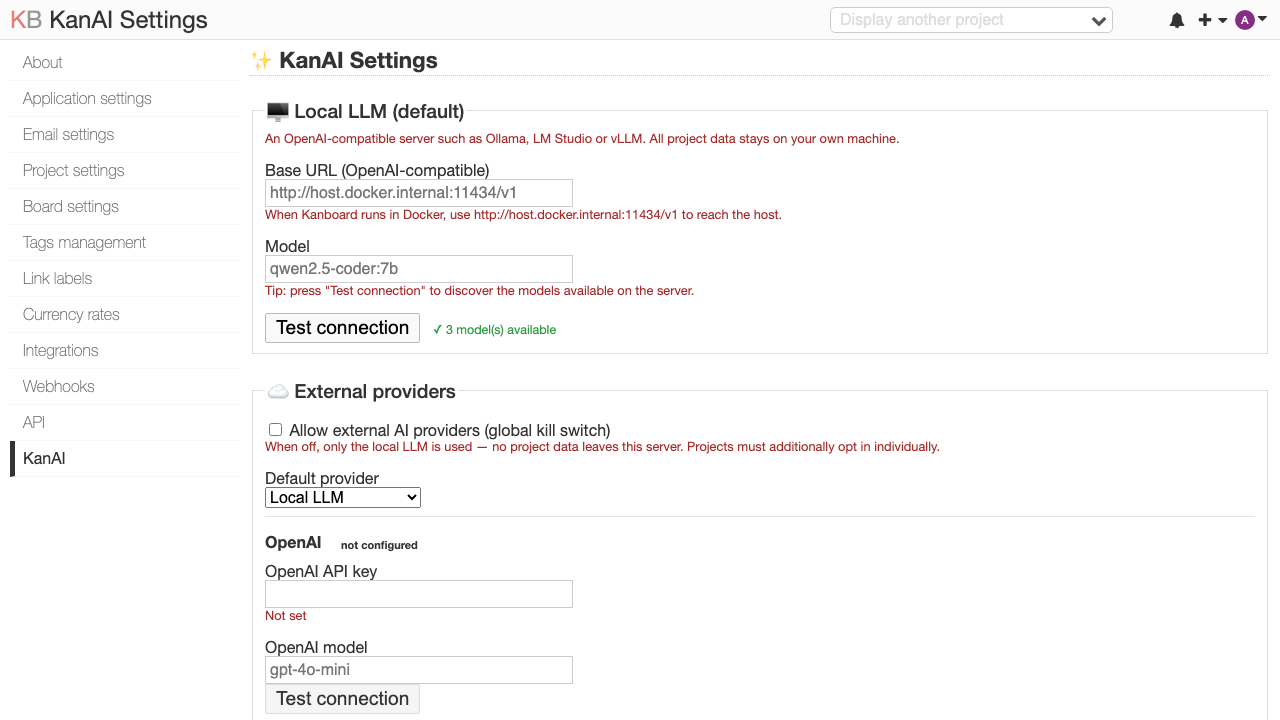
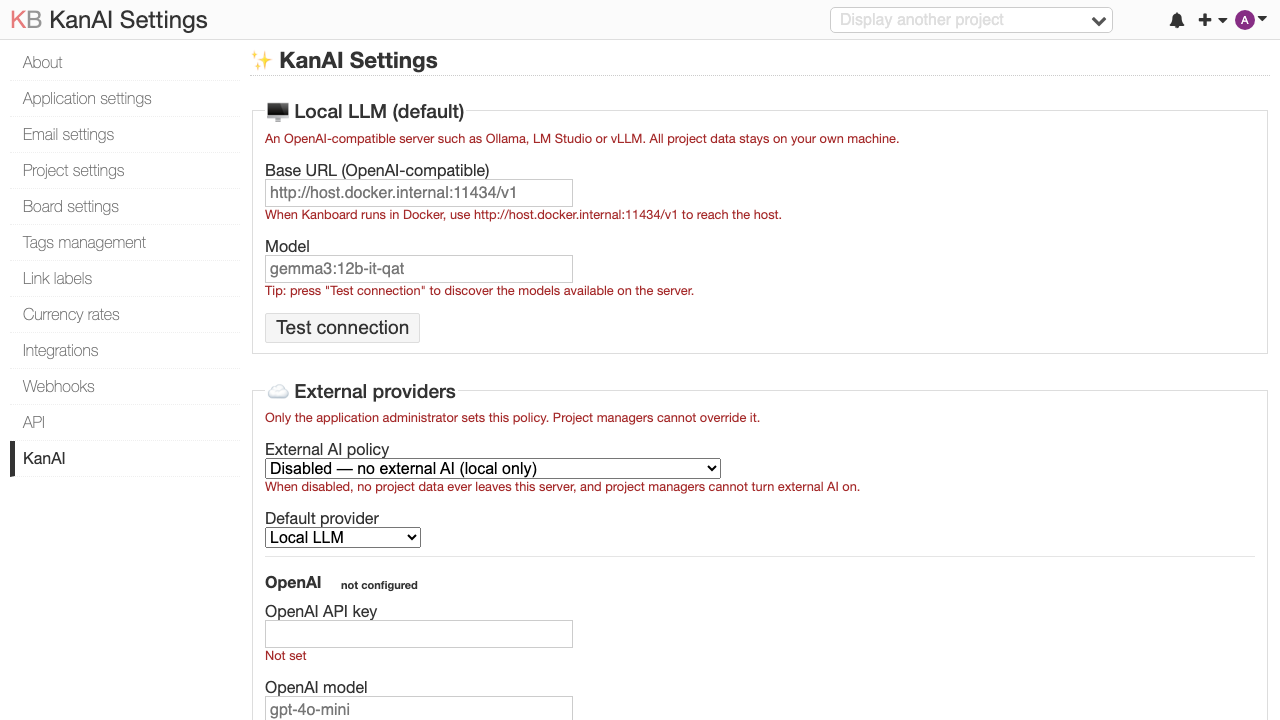
feat: admin-controlled external-AI policy (disabled/per-project/all) — v1.6.0
The application administrator (APP_ADMIN) now sets a 3-state external-AI policy;
project managers can only toggle per-project opt-in when the policy allows it and
cannot enable external AI the admin locked down. Enforced server-side in
SettingsModel::saveProject + LlmClientFactory (crafted requests ignored). Legacy
kill switch migrates automatically. Verified live across all three policies.

diff --git a/Model/SettingsModel.php b/Model/SettingsModel.php
@@ -51,8 +51,11 @@ class SettingsModel extends Base
     public function saveGlobal(array $values): void
     {
         $crypto = $this->crypto();
+        $policy = \Kanboard\Plugin\KanAI\Settings\GatingPolicy::normalizePolicy($values['kanai_external_policy'] ?? 'disabled');
         $save = [
-            'kanai_external_enabled' => empty($values['kanai_external_enabled']) ? '0' : '1',
+            'kanai_external_policy' => $policy,
+            // Keep the legacy boolean in sync for any external reader.
+            'kanai_external_enabled' => $policy === \Kanboard\Plugin\KanAI\Settings\GatingPolicy::POLICY_DISABLED ? '0' : '1',
             'kanai_default_provider' => in_array($values['kanai_default_provider'] ?? 'local', ['local', 'openai', 'anthropic'], true)
                 ? $values['kanai_default_provider'] : 'local',
             'kanai_local_base_url' => trim($values['kanai_local_base_url'] ?? self::DEFAULTS['kanai_local_base_url']),
@@ -78,9 +81,24 @@ class SettingsModel extends Base
         $this->configModel->save($save);
     }
 
+    /**
+     * Application-admin external-AI policy: disabled | project_optin | all_projects.
+     * Falls back to the legacy boolean kill switch for pre-1.6 installs.
+     */
+    public function getExternalPolicy(): string
+    {
+        $policy = $this->configModel->get('kanai_external_policy', '');
+        if ($policy === '') {
+            return $this->configModel->get('kanai_external_enabled', '0') === '1'
+                ? \Kanboard\Plugin\KanAI\Settings\GatingPolicy::POLICY_PROJECT_OPTIN
+                : \Kanboard\Plugin\KanAI\Settings\GatingPolicy::POLICY_DISABLED;
+        }
+        return \Kanboard\Plugin\KanAI\Settings\GatingPolicy::normalizePolicy($policy);
+    }
+
     public function isExternalEnabled(): bool
     {
-        return $this->configModel->get('kanai_external_enabled', '0') === '1';
+        return \Kanboard\Plugin\KanAI\Settings\GatingPolicy::externalEnabled($this->getExternalPolicy());
     }
 
     public function getProjectEnabled(int $projectId): bool
@@ -100,6 +118,12 @@ class SettingsModel extends Base
 
     public function saveProject(int $projectId, bool $enabled, bool $externalOptIn, bool $autoDigest = false): void
     {
+        // A project manager may only change the external opt-in when the admin
+        // policy allows it; otherwise the stored value is preserved (the manager
+        // cannot enable external AI the application admin has locked down).
+        if (! \Kanboard\Plugin\KanAI\Settings\GatingPolicy::projectMayOptIn($this->getExternalPolicy())) {
+            $externalOptIn = $this->getProjectExternalOptIn($projectId);
+        }
         $this->projectMetadataModel->save($projectId, [
             'kanai_enabled' => $enabled ? '1' : '0',
             'kanai_external_opt_in' => $externalOptIn ? '1' : '0',

diff --git a/Locale/nl_NL/translations.php b/Locale/nl_NL/translations.php
@@ -72,7 +72,14 @@ return array(
     'configured' => 'ingesteld',
     'not configured' => 'niet ingesteld',
     'Local LLM' => 'Lokaal LLM',
-    'When off, only the local LLM is used — no project data leaves this server. Projects must additionally opt in individually.' => 'Indien uit wordt alleen het lokale LLM gebruikt — er verlaten geen projectgegevens deze server. Projecten moeten daarnaast individueel opt-in geven.',
+    'Only the application administrator sets this policy. Project managers cannot override it.' => 'Alleen de applicatiebeheerder stelt dit beleid in. Projectbeheerders kunnen het niet overschrijven.',
+    'External AI policy' => 'Beleid externe AI',
+    'Disabled — no external AI (local only)' => 'Uitgeschakeld — geen externe AI (alleen lokaal)',
+    'Per-project opt-in — project managers may enable it' => 'Per-project opt-in — projectbeheerders mogen het aanzetten',
+    'Enabled for all projects — project managers cannot change it' => 'Aan voor alle projecten — projectbeheerders kunnen het niet wijzigen',
+    'When disabled, no project data ever leaves this server, and project managers cannot turn external AI on.' => 'Indien uitgeschakeld verlaten er nooit projectgegevens deze server, en kunnen projectbeheerders externe AI niet aanzetten.',
+    'External AI is enabled for all projects by the administrator.' => 'Externe AI is door de beheerder voor alle projecten ingeschakeld.',
+    'External AI providers are disabled by the administrator; only the local LLM is used.' => 'Externe AI-providers zijn door de beheerder uitgeschakeld; alleen het lokale LLM wordt gebruikt.',
     'How much project data is packed into a question. Larger = better answers, slower and heavier for the model.' => 'Hoeveel projectdata er in een vraag meegaat. Groter = betere antwoorden, maar trager en zwaarder voor het model.',
     'Local models can take a while; 120–180s is a safe range for larger models.' => 'Lokale modellen kunnen even duren; 120–180s is een veilige marge voor grotere modellen.',
     'Rate limit (questions per user per hour, 0 = unlimited)' => 'Limiet (vragen per gebruiker per uur, 0 = onbeperkt)',

diff --git a/tests/Settings/GatingPolicyTest.php b/tests/Settings/GatingPolicyTest.php
@@ -14,6 +14,38 @@ final class GatingPolicyTest extends TestCase
         $this->assertTrue(GatingPolicy::isExternalProvider('anthropic'));
     }
 
+    public function testNormalizePolicyRejectsUnknown(): void
+    {
+        $this->assertSame('disabled', GatingPolicy::normalizePolicy('nonsense'));
+        $this->assertSame('all_projects', GatingPolicy::normalizePolicy('all_projects'));
+        $this->assertSame('project_optin', GatingPolicy::normalizePolicy('project_optin'));
+    }
+
+    public function testExternalEnabledPerPolicy(): void
+    {
+        $this->assertFalse(GatingPolicy::externalEnabled('disabled'));
+        $this->assertTrue(GatingPolicy::externalEnabled('project_optin'));
+        $this->assertTrue(GatingPolicy::externalEnabled('all_projects'));
+    }
+
+    public function testProjectMayOptInOnlyForOptinPolicy(): void
+    {
+        $this->assertTrue(GatingPolicy::projectMayOptIn('project_optin'));
+        $this->assertFalse(GatingPolicy::projectMayOptIn('disabled'));
+        $this->assertFalse(GatingPolicy::projectMayOptIn('all_projects'));
+    }
+
+    public function testEffectiveOptInAppliesAdminPolicy(): void
+    {
+        // disabled: never, regardless of the project flag
+        $this->assertFalse(GatingPolicy::effectiveOptIn('disabled', true));
+        // all_projects: always, even if the project flag is off
+        $this->assertTrue(GatingPolicy::effectiveOptIn('all_projects', false));
+        // project_optin: follows the project flag
+        $this->assertTrue(GatingPolicy::effectiveOptIn('project_optin', true));
+        $this->assertFalse(GatingPolicy::effectiveOptIn('project_optin', false));
+    }
+
     public function testCanUseExternalRequiresBothFlags(): void
     {
         $this->assertTrue(GatingPolicy::canUseExternal(true, true));

diff --git a/Settings/GatingPolicy.php b/Settings/GatingPolicy.php
@@ -14,6 +14,41 @@ class GatingPolicy
     public const LOCAL = 'local';
     public const EXTERNAL = ['openai', 'anthropic'];
 
+    // Application-admin external-AI policy (project managers cannot change it).
+    public const POLICY_DISABLED = 'disabled';        // no external AI anywhere
+    public const POLICY_PROJECT_OPTIN = 'project_optin'; // project managers may opt in
+    public const POLICY_ALL_PROJECTS = 'all_projects';   // forced on for every project
+    public const POLICIES = [self::POLICY_DISABLED, self::POLICY_PROJECT_OPTIN, self::POLICY_ALL_PROJECTS];
+
+    public static function normalizePolicy(string $policy): string
+    {
+        return in_array($policy, self::POLICIES, true) ? $policy : self::POLICY_DISABLED;
+    }
+
+    /** Is external AI available at all under this admin policy? */
+    public static function externalEnabled(string $policy): bool
+    {
+        return $policy !== self::POLICY_DISABLED;
+    }
+
+    /** Whether project managers may set the per-project opt-in under this policy. */
+    public static function projectMayOptIn(string $policy): bool
+    {
+        return $policy === self::POLICY_PROJECT_OPTIN;
+    }
+
+    /** The effective per-project opt-in after applying the admin policy. */
+    public static function effectiveOptIn(string $policy, bool $projectOptIn): bool
+    {
+        if ($policy === self::POLICY_ALL_PROJECTS) {
+            return true;
+        }
+        if ($policy === self::POLICY_PROJECT_OPTIN) {
+            return $projectOptIn;
+        }
+        return false;
+    }
+
     public static function isExternalProvider(string $provider): bool
     {
         return in_array($provider, self::EXTERNAL, true);

diff --git a/LLM/LlmClientFactory.php b/LLM/LlmClientFactory.php
@@ -14,11 +14,12 @@ class LlmClientFactory extends Base
 
         // Throws RuntimeException if AI is off for the project or an external
         // provider is requested without both flags set. Enforced here, server-side.
+        $policy = $this->settingsModel->getExternalPolicy();
         $provider = GatingPolicy::resolveProvider(
             $this->settingsModel->getProjectEnabled($projectId),
             $requested,
-            $this->settingsModel->isExternalEnabled(),
-            $this->settingsModel->getProjectExternalOptIn($projectId)
+            GatingPolicy::externalEnabled($policy),
+            GatingPolicy::effectiveOptIn($policy, $this->settingsModel->getProjectExternalOptIn($projectId))
         );
 
         $maxOutput = (int) $settings['kanai_max_output_tokens'];
@@ -45,11 +46,12 @@ class LlmClientFactory extends Base
     {
         $settings = $this->settingsModel->getGlobal();
         $requested = $requestedProvider !== '' ? $requestedProvider : $settings['kanai_default_provider'];
+        $policy = $this->settingsModel->getExternalPolicy();
         $provider = GatingPolicy::resolveProvider(
             $this->settingsModel->getProjectEnabled($projectId),
             $requested,
-            $this->settingsModel->isExternalEnabled(),
-            $this->settingsModel->getProjectExternalOptIn($projectId)
+            GatingPolicy::externalEnabled($policy),
+            GatingPolicy::effectiveOptIn($policy, $this->settingsModel->getProjectExternalOptIn($projectId))
         );
         $modelKey = ['anthropic' => 'kanai_anthropic_model', 'openai' => 'kanai_openai_model'];
         $model = $settings[$modelKey[$provider] ?? 'kanai_local_model'];

diff --git a/Template/project/settings.php b/Template/project/settings.php
@@ -2,10 +2,16 @@
 <form method="post" action="<?= $this->url->href('ProjectSettingsController', 'save', ['project_id' => $project['id'], 'plugin' => 'KanAI']) ?>">
     <?= $this->form->csrf() ?>
     <?= $this->form->checkbox('kanai_enabled', t('Enable KanAI for this project'), '1', $enabled) ?>
-    <?= $this->form->checkbox('kanai_external_opt_in', t('Allow external AI providers for this project'), '1', $external_opt_in) ?>
-    <?= $this->form->checkbox('kanai_auto_digest', t('Enable the automatic daily digest (requires the kanai:digest cron job)'), '1', $auto_digest) ?>
-    <?php if (! $external_globally_enabled): ?>
-        <p class="form-help"><?= t('External providers are globally disabled by the administrator; only the local LLM will be used regardless of this setting.') ?></p>
+
+    <?php if ($external_policy === 'project_optin'): ?>
+        <?= $this->form->checkbox('kanai_external_opt_in', t('Allow external AI providers for this project'), '1', $external_opt_in) ?>
+    <?php elseif ($external_policy === 'all_projects'): ?>
+        <p class="form-help"><i class="fa fa-cloud"></i> <?= t('External AI is enabled for all projects by the administrator.') ?></p>
+    <?php else: ?>
+        <p class="form-help"><i class="fa fa-lock"></i> <?= t('External AI providers are disabled by the administrator; only the local LLM is used.') ?></p>
     <?php endif ?>
+
+    <?= $this->form->checkbox('kanai_auto_digest', t('Enable the automatic daily digest (requires the kanai:digest cron job)'), '1', $auto_digest) ?>
+
     <div class="form-actions"><button type="submit" class="btn btn-blue"><?= t('Save') ?></button></div>
 </form>

diff --git a/Template/config/settings.php b/Template/config/settings.php
@@ -26,8 +26,14 @@
 
     <fieldset>
         <legend>☁ <?= t('External providers') ?></legend>
-        <?= $this->form->checkbox('kanai_external_enabled', t('Allow external AI providers (global kill switch)'), '1', $values['kanai_external_enabled'] == '1') ?>
-        <p class="form-help"><?= t('When off, only the local LLM is used — no project data leaves this server. Projects must additionally opt in individually.') ?></p>
+        <p class="form-help"><?= t('Only the application administrator sets this policy. Project managers cannot override it.') ?></p>
+        <?= $this->form->label(t('External AI policy'), 'kanai_external_policy') ?>
+        <?= $this->form->select('kanai_external_policy', [
+            'disabled' => t('Disabled — no external AI (local only)'),
+            'project_optin' => t('Per-project opt-in — project managers may enable it'),
+            'all_projects' => t('Enabled for all projects — project managers cannot change it'),
+        ], $values) ?>
+        <p class="form-help"><?= t('When disabled, no project data ever leaves this server, and project managers cannot turn external AI on.') ?></p>
 
         <?= $this->form->label(t('Default provider'), 'kanai_default_provider') ?>
         <?= $this->form->select('kanai_default_provider', ['local' => t('Local LLM'), 'openai' => 'OpenAI', 'anthropic' => 'Anthropic (Claude)'], $values) ?>

diff --git a/Plugin.php b/Plugin.php
@@ -74,7 +74,7 @@ class Plugin extends Base
     public function getPluginName(): string { return 'KanAI'; }
     public function getPluginDescription(): string { return 'AI assistant & project Q&A (RAG) for Kanboard — local LLM first, optional external providers'; }
     public function getPluginAuthor(): string { return 'k1bot2026'; }
-    public function getPluginVersion(): string { return '1.5.0'; }
+    public function getPluginVersion(): string { return '1.6.0'; }
     public function getCompatibleVersion(): string { return '>=1.2.46'; }
     public function getPluginHomepage(): string { return 'https://github.com/k1bot2026/kanboard-plugin-kanai'; }
 }

diff --git a/Controller/ProjectSettingsController.php b/Controller/ProjectSettingsController.php
@@ -14,7 +14,7 @@ class ProjectSettingsController extends BaseController
             'enabled' => $this->settingsModel->getProjectEnabled($project['id']),
             'external_opt_in' => $this->settingsModel->getProjectExternalOptIn($project['id']),
             'auto_digest' => $this->settingsModel->getProjectAutoDigest($project['id']),
-            'external_globally_enabled' => $this->settingsModel->isExternalEnabled(),
+            'external_policy' => $this->settingsModel->getExternalPolicy(),
             'title' => t('KanAI Settings'),
         ]));
     }

diff --git a/README.md b/README.md
@@ -59,9 +59,12 @@ review (rendered as "KanAI (automatic)" 🤖). Schedule it from cron:
 For Docker: `docker exec <container> php /var/www/app/cli kanai:digest`.
 
 ### 🔒 Security model
-- **Local-first**: the default provider is your own OpenAI-compatible server;
-  external providers are OFF until an admin enables them *and* each project
-  opts in — enforced server-side, not in the UI.
+- **Local-first**: the default provider is your own OpenAI-compatible server.
+- **Admin-controlled external policy**: only the *application* administrator
+  (not project managers) sets whether external AI is allowed — `disabled`
+  (local only), `project_optin` (project managers may enable it per project), or
+  `all_projects` (forced on). When disabled or forced, project managers cannot
+  change it; the policy is enforced server-side, not just hidden in the UI.
 - **Human approval gate**: no model output ever changes project state without
   an explicit click; project content is treated as untrusted input
   (prompt-injection framing in the system prompt).
@@ -105,7 +108,7 @@ server — discovers the available models as suggestions for the model field.
 | Setting | Default | |
 |---|---|---|
 | Base URL | `http://localhost:11434/v1` | any OpenAI-compatible server; use `http://host.docker.internal:11434/v1` from Docker |
-| External providers | off | global kill switch for OpenAI/Anthropic |
+| External AI policy | disabled | `disabled` / `project_optin` / `all_projects` — app-admin only |
 | Max context tokens | 8000 | how much project data goes into a question |
 | Max output tokens | 1024 | answer length budget |
 | Request timeout | 120s | local models can take a while |
@@ -116,9 +119,10 @@ server — discovers the available models as suggestions for the model field.
 
 ![Project settings](screenshots/project-settings.png)
 
-KanAI is off per project until enabled here. External providers additionally
-require the per-project opt-in, and the automatic daily digest is a separate
-opt-in.
+KanAI is off per project until enabled here. Whether the "allow external AI"
+checkbox appears at all is governed by the application admin's external policy
+(project managers cannot enable external AI the admin has locked down). The
+automatic daily digest is a separate opt-in.
 
 ### Production note: encryption key
 

diff --git a/CHANGELOG.md b/CHANGELOG.md
@@ -1,5 +1,18 @@
 # Changelog
 
+## 1.6.0 — 2026-07-02
+
+### Added
+- Admin-controlled external-AI policy. The application administrator sets one of
+  three policies (Settings → KanAI): **disabled** (local only), **per-project
+  opt-in** (project managers may enable external AI per project), or **enabled
+  for all projects** (forced on). Project managers can only toggle the
+  per-project opt-in when the policy allows it — they cannot enable external AI
+  the application admin has locked down, and the restriction is enforced
+  server-side (a crafted request is ignored). Replaces the previous global
+  on/off kill switch; existing installs migrate automatically (on → per-project
+  opt-in, off → disabled).
+
 ## 1.5.0 — 2026-07-02
 
 ### Added
